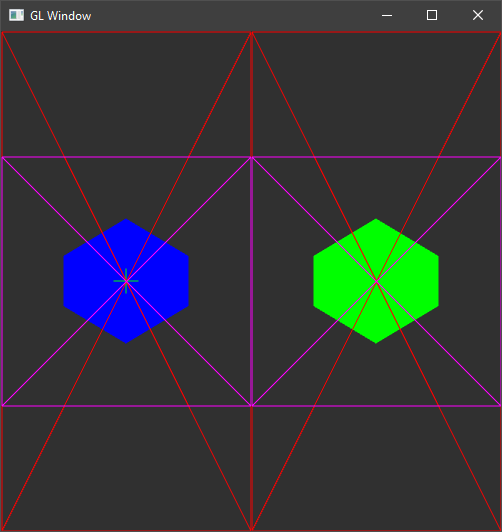
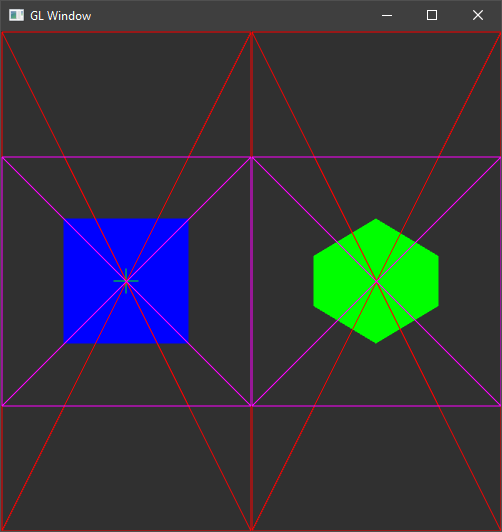
Initial

Changed region(s): [[0.1195, 0.5714, 0.3884, 0.6617], [0.1195, 0.391, 0.3884, 0.4812]]

diff --git a/example/example.multiview.h b/example/example.multiview.h
@@ -26,17 +26,61 @@ public:
     auto color = glcolor_t<GLfloat>(colors[view.index()]);
 
     glColor3f(color.r, color.g, color.b);
-    glBegin(GL_POLYGON);
+
+    switch (view.index())
     {
-      glVertex3f(+0.0F, +0.5F, +0.0F);
-      glVertex3f(-0.5F, +0.2F, +0.0F);
-      glVertex3f(-0.5F, -0.2F, +0.0F);
-      glVertex3f(+0.0F, -0.5F, +0.0F);
-      glVertex3f(+0.0F, +0.5F, +0.0F);
-      glVertex3f(+0.5F, +0.2F, +0.0F);
-      glVertex3f(+0.5F, -0.2F, +0.0F);
-      glVertex3f(+0.0F, -0.5F, +0.0F);
+    case 0:
+      {
+        glBegin(GL_TRIANGLES);
+        {
+          glVertex2f(-0.5, 0.5);
+          glVertex2f(-0.5, -0.5);
+          glVertex2f(0.5, 0.5);
+          glVertex2f(0.5, 0.5);
+          glVertex2f(-0.5, -0.5);
+          glVertex2f(0.5, -0.5);
+        }
+        glEnd();
+      }
+      break;
+
+    case 1:
+      {
+        glBegin(GL_POLYGON);
+        {
+          glVertex2f(+0.0F, +0.5F);
+          glVertex2f(-0.5F, +0.2F);
+          glVertex2f(-0.5F, -0.2F);
+          glVertex2f(+0.0F, -0.5F);
+          glVertex2f(+0.0F, +0.5F);
+          glVertex2f(+0.5F, +0.2F);
+          glVertex2f(+0.5F, -0.2F);
+          glVertex2f(+0.0F, -0.5F);
+        }
+        glEnd();
+      }
+      break;
+
+    case 2:
+      {
+        renderer().circle(p2d(0., 0.), 0.5, GLPrimitive::circle_t::fill);
+      }
+      break;
+
+    case 3:
+      {
+        glBegin(GL_TRIANGLES);
+        {
+          glVertex2f(-0.5F, -0.5F);
+          glVertex2f(+0.5F, -0.5F);
+          glVertex2f(+0.0F, +0.5F);
+        }
+        glEnd();
+      }
+      break;
+
+    default:
+      break;
     }
-    glEnd();
   }
 };

diff --git a/README.md b/README.md
@@ -68,9 +68,9 @@ Released under the [MIT](LICENSE.md) license
 
 >[example/example.multiview.h](example/example.multiview.h)
 >
->![](screenshots/example.multiview-2x2.png?)
->![](screenshots/example.multiview-2x1.png?)
->![](screenshots/example.multiview-1x2.png?)
+>![](screenshots/example.multiview-2x2.png)
+>![](screenshots/example.multiview-2x1.png)
+>![](screenshots/example.multiview-1x2.png)
 
 >[example/example.shader.h](example/example.shader.h)
 >
